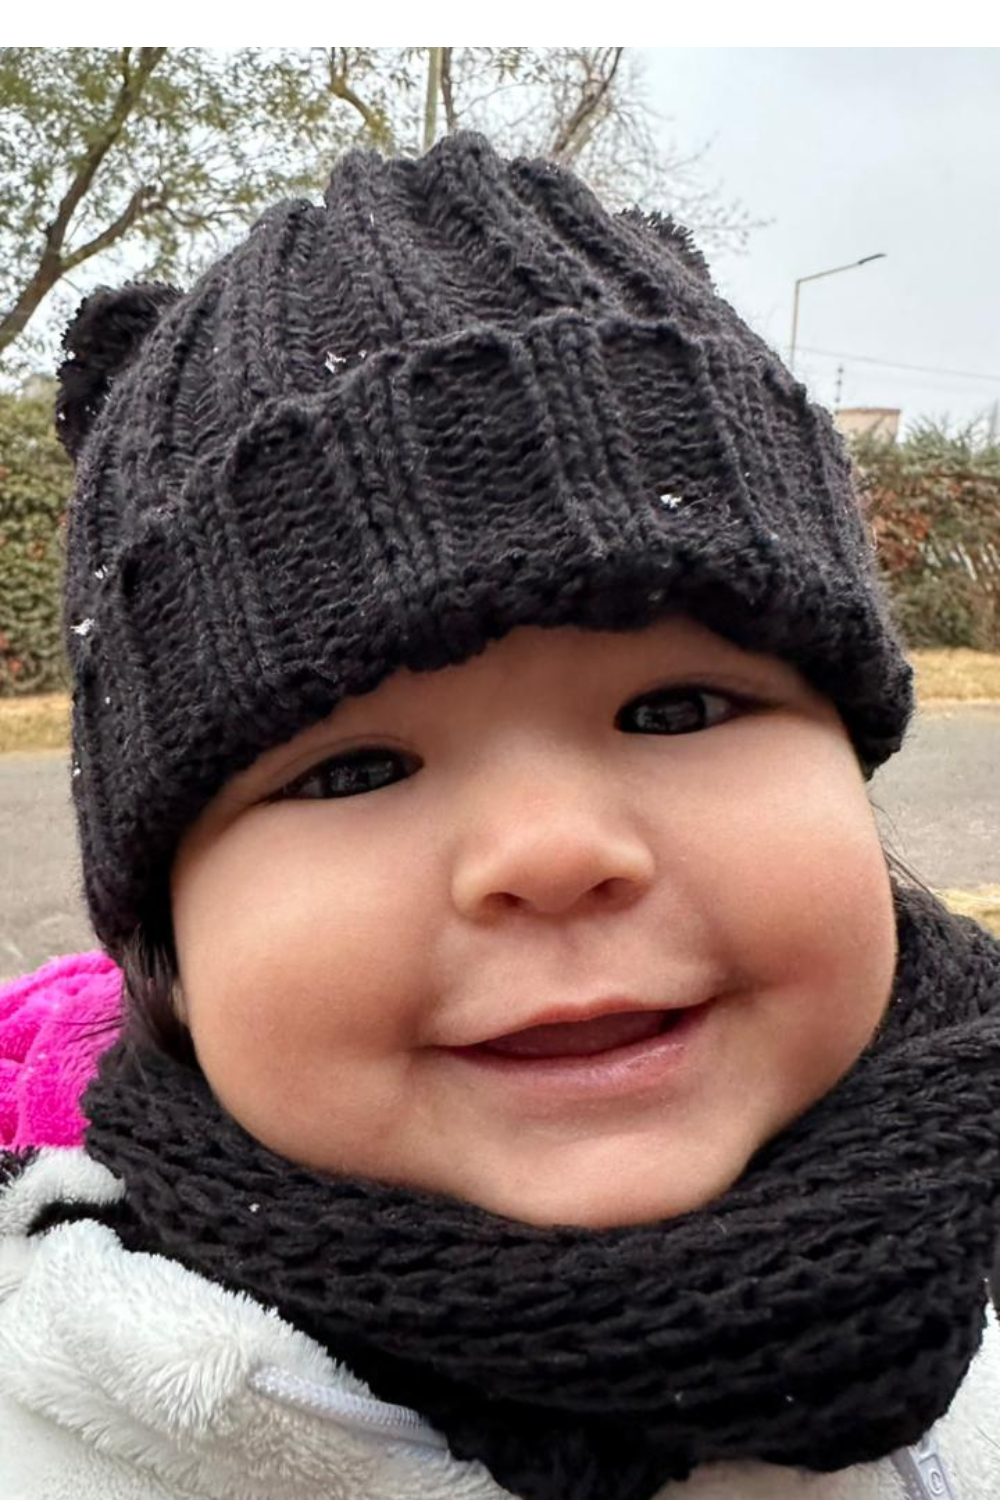
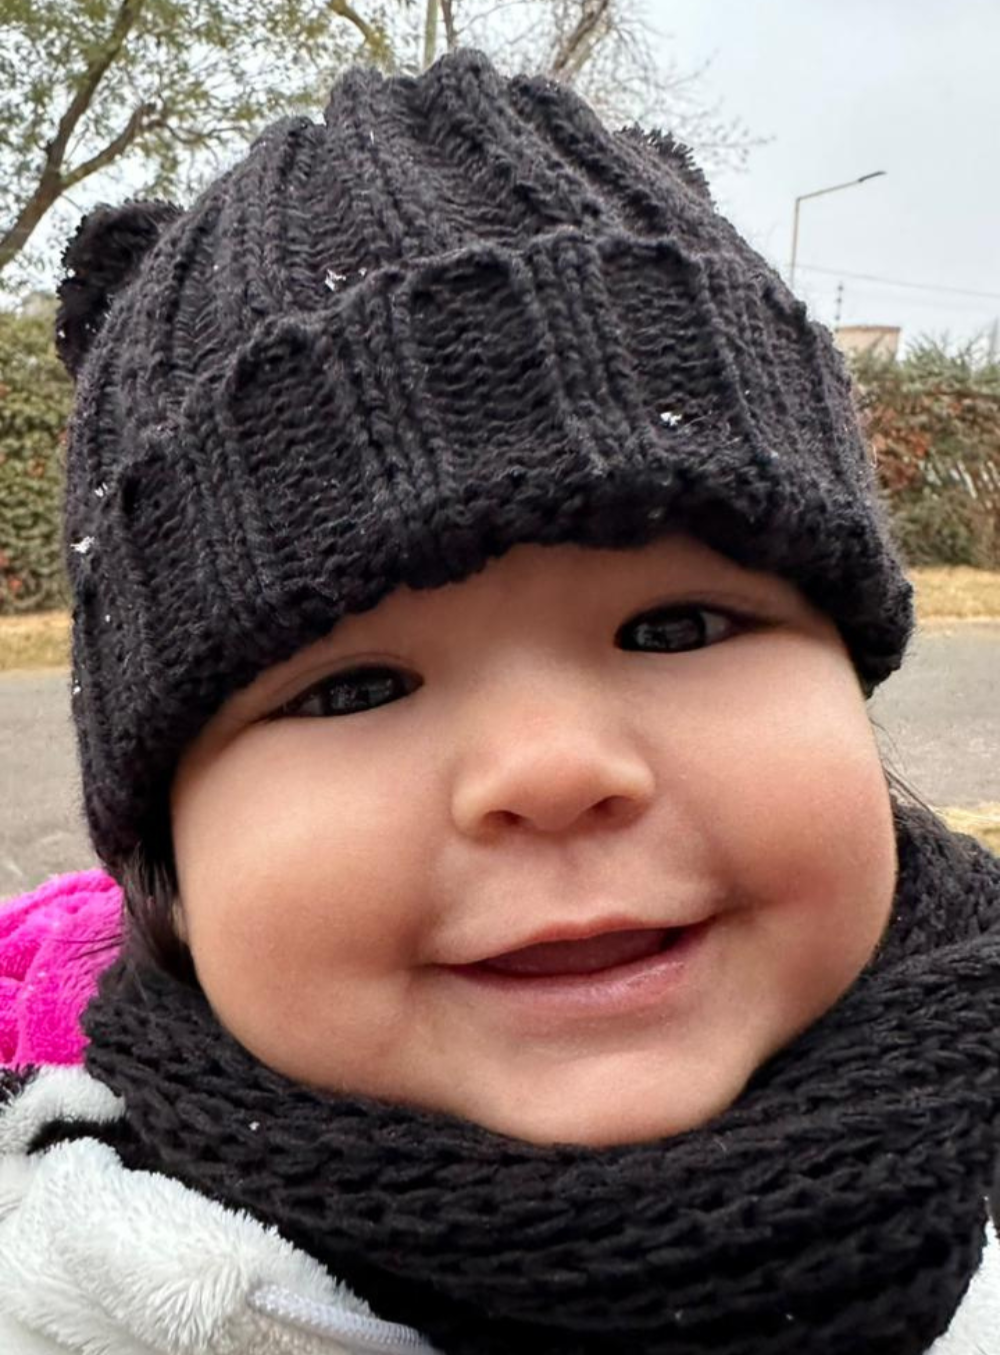
modifique imagenes para que sea responsive

diff --git a/style.css b/style.css
@@ -106,7 +106,7 @@ span{
 }
 
 .image{
-    height: 800px;
+    height: 750px;
     object-fit: cover;
 }
 
